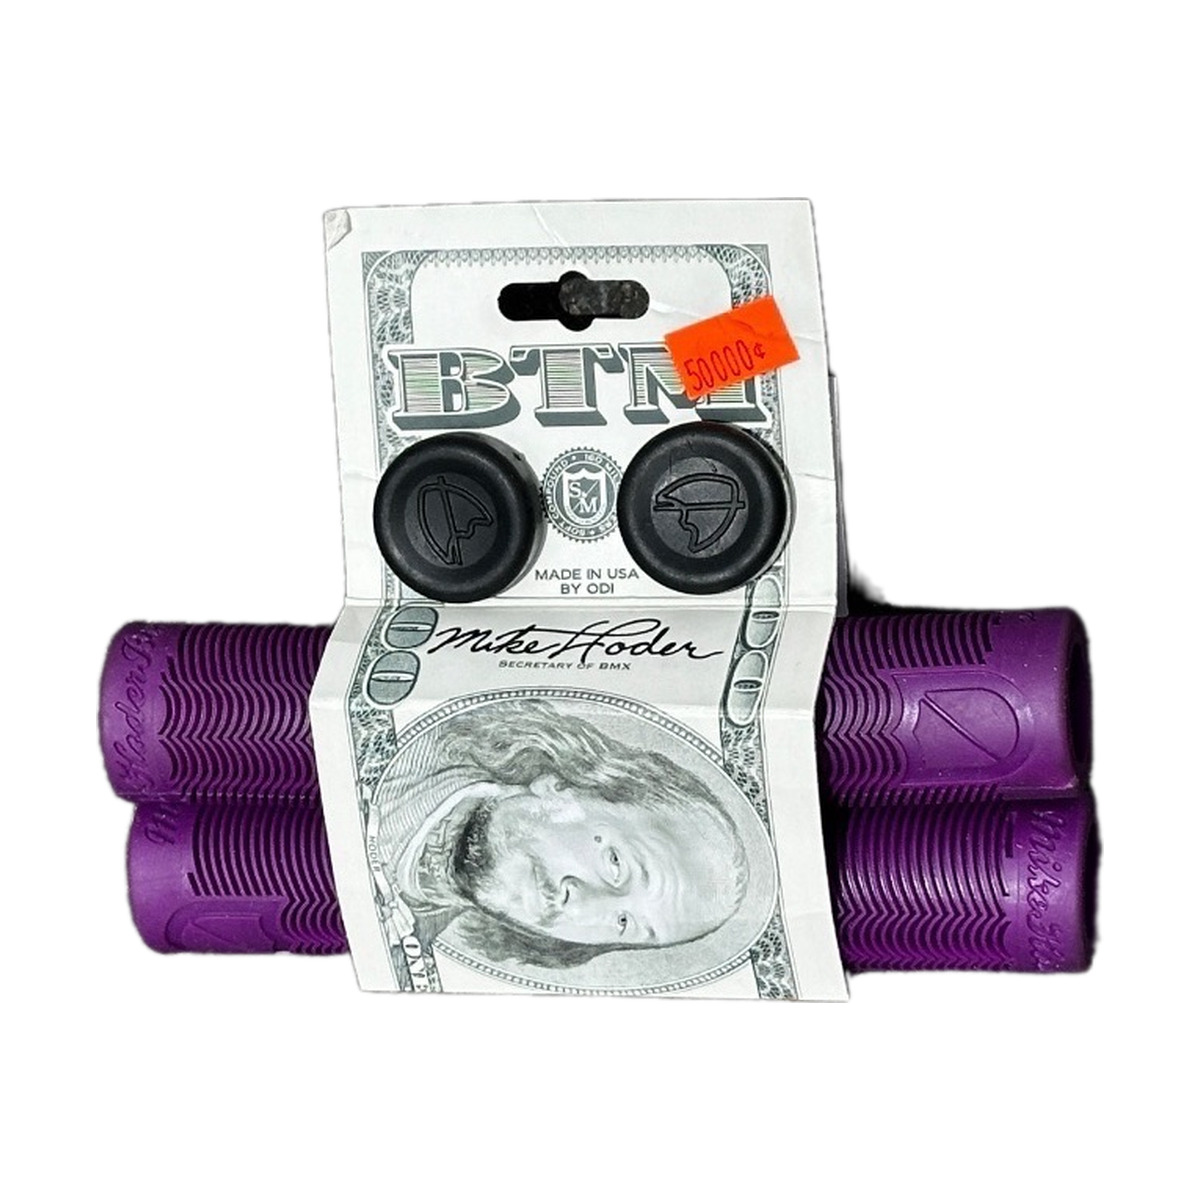
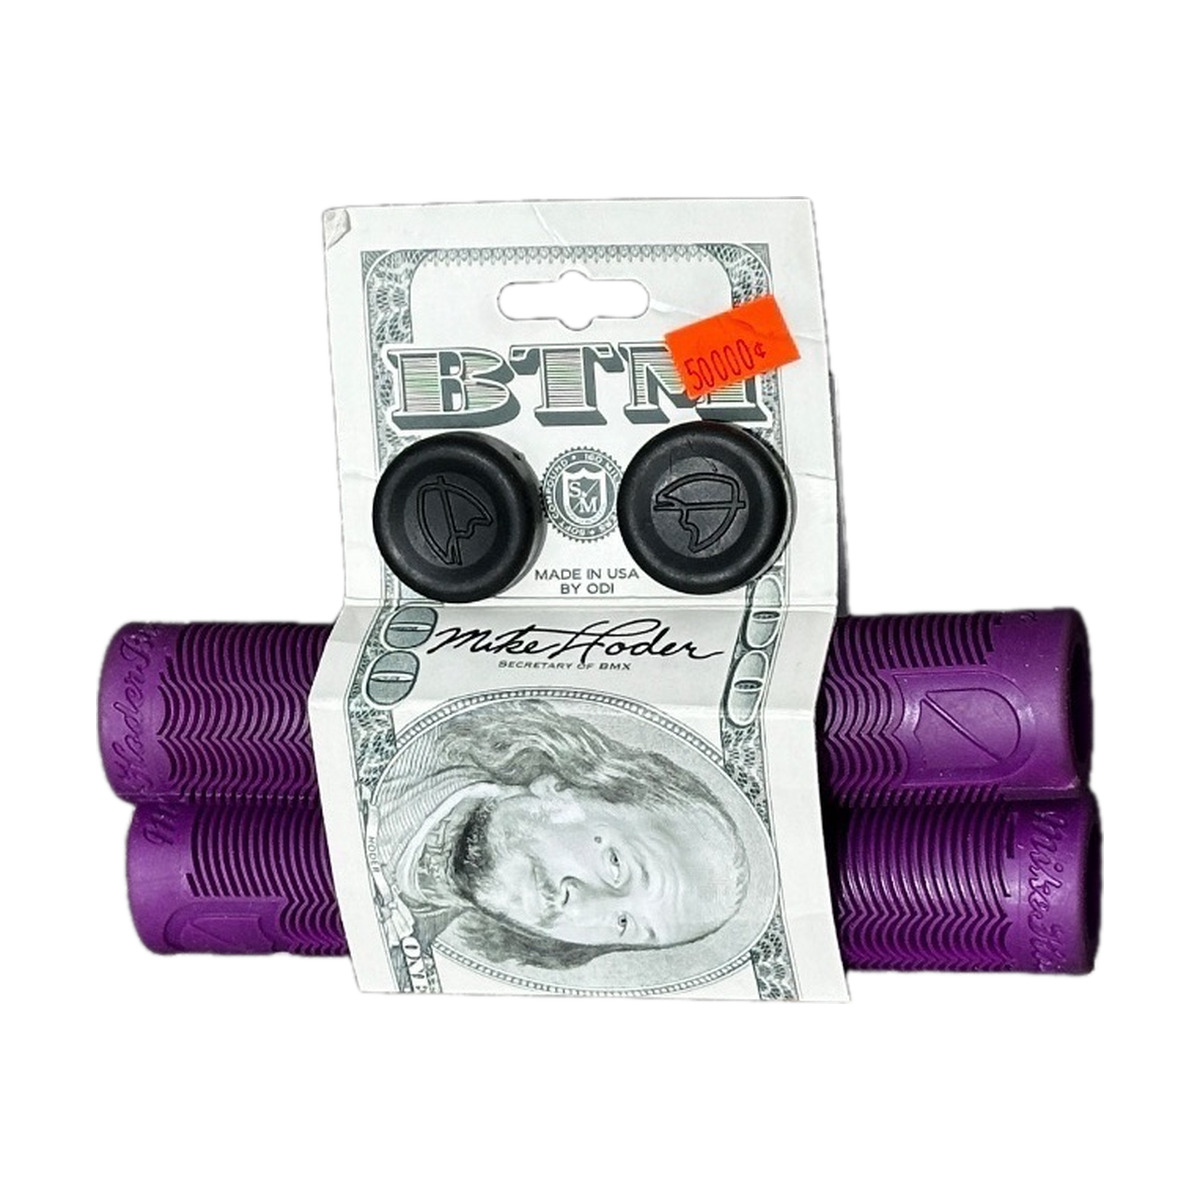
Fix broken Havens Gate photo; check live photo size instead of bytes
The fast background pass cut the Havens Gate handlebar in half.
Reprocess it from the original (it was already on white) and bump its
cache version. Hostinger's CDN re-encodes images, so the deploy check
now compares pixel dimensions instead of bytes.

Claude-Session: https://claude.ai/code/session_01JD7PEGH89YTJZUJzNQka1T

diff --git a/producto/timon-cult-havens-gate-4pc-cromado.html b/producto/timon-cult-havens-gate-4pc-cromado.html
@@ -15,11 +15,11 @@
   <meta property="og:title" content="Timon Cult Havens Gate 4PC - Cromado — Cult | ESCENABMX" />
   <meta property="og:description" content="Timon Cult Havens Gate 4PC - Cromado (Cult) — Fabricado en cromoly 100% tratado térmicamente y conificado , 28&quot; de ancho, 11,5° de inclinación hacia atrás, 3° de inclinación hacia arriba. $400.000 COP. Pedidos por WhatsApp con envío a toda Colombia. Tienda de partes BMX ESCENABMX." />
   <meta property="og:url" content="https://escenabmx.com/producto/timon-cult-havens-gate-4pc-cromado" />
-  <meta property="og:image" content="https://escenabmx.com/assets/img/products/timon-cult-havens-gate-4pc-cromado-mue14yksfrx6.jpg?v=1792523555864" />
+  <meta property="og:image" content="https://escenabmx.com/assets/img/products/timon-cult-havens-gate-4pc-cromado-mue14yksfrx6.jpg?v=1792524152401" />
   <meta name="twitter:card" content="summary_large_image" />
   <meta name="twitter:title" content="Timon Cult Havens Gate 4PC - Cromado — Cult | ESCENABMX" />
   <meta name="twitter:description" content="Timon Cult Havens Gate 4PC - Cromado (Cult) — Fabricado en cromoly 100% tratado térmicamente y conificado , 28&quot; de ancho, 11,5° de inclinación hacia atrás, 3° de inclinación hacia arriba. $400.000 COP. Pedidos por WhatsApp con envío a toda Colombia. Tienda de partes BMX ESCENABMX." />
-  <meta name="twitter:image" content="https://escenabmx.com/assets/img/products/timon-cult-havens-gate-4pc-cromado-mue14yksfrx6.jpg?v=1792523555864" />
+  <meta name="twitter:image" content="https://escenabmx.com/assets/img/products/timon-cult-havens-gate-4pc-cromado-mue14yksfrx6.jpg?v=1792524152401" />
   <link rel="icon" href="../assets/img/favicon.ico?v=2" sizes="any" />
   <link rel="icon" type="image/png" sizes="32x32" href="../assets/img/favicon-32.png?v=2" />
   <link rel="icon" type="image/png" sizes="48x48" href="../assets/img/favicon-48.png?v=2" />
@@ -32,7 +32,7 @@
   <link rel="preconnect" href="https://fonts.googleapis.com" />
   <link rel="preconnect" href="https://fonts.gstatic.com" crossorigin />
   <link href="https://fonts.googleapis.com/css2?family=Bebas+Neue&family=Inter:wght@300;400;500;600;700;800&display=swap" rel="stylesheet" />
-  <script type="application/ld+json">{"@context": "https://schema.org", "@type": "Product", "name": "Timon Cult Havens Gate 4PC - Cromado", "image": "https://escenabmx.com/assets/img/products/timon-cult-havens-gate-4pc-cromado-mue14yksfrx6.jpg?v=1792523555864", "description": "Timon Cult Havens Gate 4PC - Cromado (Cult) — Fabricado en cromoly 100% tratado térmicamente y conificado , 28\" de ancho, 11,5° de inclinación hacia atrás, 3° de inclinación hacia arriba.", "sku": "TMN-CLT-003", "brand": {"@type": "Brand", "name": "Cult"}, "category": "Timones", "offers": {"@type": "Offer", "url": "https://escenabmx.com/producto/timon-cult-havens-gate-4pc-cromado", "priceCurrency": "COP", "price": "400000", "availability": "https://schema.org/InStock", "itemCondition": "https://schema.org/NewCondition", "seller": {"@type": "Organization", "name": "ESCENABMX"}}}</script>
+  <script type="application/ld+json">{"@context": "https://schema.org", "@type": "Product", "name": "Timon Cult Havens Gate 4PC - Cromado", "image": "https://escenabmx.com/assets/img/products/timon-cult-havens-gate-4pc-cromado-mue14yksfrx6.jpg?v=1792524152401", "description": "Timon Cult Havens Gate 4PC - Cromado (Cult) — Fabricado en cromoly 100% tratado térmicamente y conificado , 28\" de ancho, 11,5° de inclinación hacia atrás, 3° de inclinación hacia arriba.", "sku": "TMN-CLT-003", "brand": {"@type": "Brand", "name": "Cult"}, "category": "Timones", "offers": {"@type": "Offer", "url": "https://escenabmx.com/producto/timon-cult-havens-gate-4pc-cromado", "priceCurrency": "COP", "price": "400000", "availability": "https://schema.org/InStock", "itemCondition": "https://schema.org/NewCondition", "seller": {"@type": "Organization", "name": "ESCENABMX"}}}</script>
   <script type="application/ld+json">{"@context": "https://schema.org", "@type": "BreadcrumbList", "itemListElement": [{"@type": "ListItem", "position": 1, "name": "Inicio", "item": "https://escenabmx.com/inicio"}, {"@type": "ListItem", "position": 2, "name": "Tienda", "item": "https://escenabmx.com/tienda"}, {"@type": "ListItem", "position": 3, "name": "Timones", "item": "https://escenabmx.com/tienda?cat=manubrios"}, {"@type": "ListItem", "position": 4, "name": "Timon Cult Havens Gate 4PC - Cromado", "item": "https://escenabmx.com/producto/timon-cult-havens-gate-4pc-cromado"}]}</script>
   <style>
     *, *::before, *::after { box-sizing: border-box; margin: 0; padding: 0; }
@@ -356,10 +356,10 @@ header.top-bar .brand .name { color: #fff; }
 
 <div class="pdp">
   <div>
-    <div class="pdp-image" id="pdpGallery" data-imgs="[&quot;../assets/img/products/timon-cult-havens-gate-4pc-cromado-mue14yksfrx6.jpg?v=1792523555864&quot;]" data-fit="auto">
+    <div class="pdp-image" id="pdpGallery" data-imgs="[&quot;../assets/img/products/timon-cult-havens-gate-4pc-cromado-mue14yksfrx6.jpg?v=1792524152401&quot;]" data-fit="auto">
       <div class="pdp-image-blur" id="pdpBlur"></div>
       
-      <img id="pdpMainImg" src="../assets/img/products/timon-cult-havens-gate-4pc-cromado-mue14yksfrx6.jpg?v=1792523555864" alt="Timon Cult Havens Gate 4PC - Cromado - Cult BMX" width="700" height="700" />
+      <img id="pdpMainImg" src="../assets/img/products/timon-cult-havens-gate-4pc-cromado-mue14yksfrx6.jpg?v=1792524152401" alt="Timon Cult Havens Gate 4PC - Cromado - Cult BMX" width="700" height="700" />
       <button type="button" class="pdp-zoom-btn" id="pdpZoomBtn" aria-label="Ampliar imagen"><svg viewBox="0 0 24 24" aria-hidden="true"><circle cx="11" cy="11" r="7"/><path d="M21 21l-4.3-4.3M11 8v6M8 11h6"/></svg></button>
       <div class="pdp-dots" id="pdpDots"></div>
     </div>
@@ -382,7 +382,7 @@ header.top-bar .brand .name { color: #fff; }
         <input type="number" class="qty-input" id="qtyInput" value="1" min="1" max="2" />
         <button type="button" id="qtyInc" aria-label="Aumentar cantidad">+</button>
       </div>
-      <button type="button" class="add-cart-btn" data-slug="timon-cult-havens-gate-4pc-cromado" data-n="Timon Cult Havens Gate 4PC - Cromado" data-brand="Cult" data-price="400000" data-img="assets/img/products/timon-cult-havens-gate-4pc-cromado-mue14yksfrx6.jpg?v=1792523555864" data-units="2" data-variant="">Agregar al carrito</button>
+      <button type="button" class="add-cart-btn" data-slug="timon-cult-havens-gate-4pc-cromado" data-n="Timon Cult Havens Gate 4PC - Cromado" data-brand="Cult" data-price="400000" data-img="assets/img/products/timon-cult-havens-gate-4pc-cromado-mue14yksfrx6.jpg?v=1792524152401" data-units="2" data-variant="">Agregar al carrito</button>
     </div>
     <div class="pdp-share">
       <span>Compartir</span>

diff --git a/producto/timon-cult-heavens-gate-4p-cromado.html b/producto/timon-cult-heavens-gate-4p-cromado.html
@@ -402,7 +402,7 @@ header.top-bar .brand .name { color: #fff; }
   <h2>También te puede gustar</h2>
   <div class="related-grid">
     <a class="r-card" href="timon-cult-havens-gate-4pc-cromado">
-        <div class="ph" style="position:relative;"><img src="../assets/img/products/timon-cult-havens-gate-4pc-cromado-mue14yksfrx6.jpg?v=1792523555864" alt="Timon Cult Havens Gate 4PC - Cromado - Cult BMX" loading="lazy" width="300" height="300" /></div>
+        <div class="ph" style="position:relative;"><img src="../assets/img/products/timon-cult-havens-gate-4pc-cromado-mue14yksfrx6.jpg?v=1792524152401" alt="Timon Cult Havens Gate 4PC - Cromado - Cult BMX" loading="lazy" width="300" height="300" /></div>
         <div class="body">
           <span class="brand-lbl">Cult</span>
           <h3>Timon Cult Havens Gate 4PC - Cromado</h3>

diff --git a/producto/timon-fiend-reynolds-cromado.html b/producto/timon-fiend-reynolds-cromado.html
@@ -402,7 +402,7 @@ header.top-bar .brand .name { color: #fff; }
   <h2>También te puede gustar</h2>
   <div class="related-grid">
     <a class="r-card" href="timon-cult-havens-gate-4pc-cromado">
-        <div class="ph" style="position:relative;"><img src="../assets/img/products/timon-cult-havens-gate-4pc-cromado-mue14yksfrx6.jpg?v=1792523555864" alt="Timon Cult Havens Gate 4PC - Cromado - Cult BMX" loading="lazy" width="300" height="300" /></div>
+        <div class="ph" style="position:relative;"><img src="../assets/img/products/timon-cult-havens-gate-4pc-cromado-mue14yksfrx6.jpg?v=1792524152401" alt="Timon Cult Havens Gate 4PC - Cromado - Cult BMX" loading="lazy" width="300" height="300" /></div>
         <div class="body">
           <span class="brand-lbl">Cult</span>
           <h3>Timon Cult Havens Gate 4PC - Cromado</h3>

diff --git a/producto/timon-fiend-reynolds.html b/producto/timon-fiend-reynolds.html
@@ -402,7 +402,7 @@ header.top-bar .brand .name { color: #fff; }
   <h2>También te puede gustar</h2>
   <div class="related-grid">
     <a class="r-card" href="timon-cult-havens-gate-4pc-cromado">
-        <div class="ph" style="position:relative;"><img src="../assets/img/products/timon-cult-havens-gate-4pc-cromado-mue14yksfrx6.jpg?v=1792523555864" alt="Timon Cult Havens Gate 4PC - Cromado - Cult BMX" loading="lazy" width="300" height="300" /></div>
+        <div class="ph" style="position:relative;"><img src="../assets/img/products/timon-cult-havens-gate-4pc-cromado-mue14yksfrx6.jpg?v=1792524152401" alt="Timon Cult Havens Gate 4PC - Cromado - Cult BMX" loading="lazy" width="300" height="300" /></div>
         <div class="body">
           <span class="brand-lbl">Cult</span>
           <h3>Timon Cult Havens Gate 4PC - Cromado</h3>

diff --git a/producto/manubrio-cromoly-negro-01.html b/producto/manubrio-cromoly-negro-01.html
@@ -413,7 +413,7 @@ header.top-bar .brand .name { color: #fff; }
         </div>
       </a>
 <a class="r-card" href="timon-cult-havens-gate-4pc-cromado">
-        <div class="ph" style="position:relative;"><img src="../assets/img/products/timon-cult-havens-gate-4pc-cromado-mue14yksfrx6.jpg?v=1792523555864" alt="Timon Cult Havens Gate 4PC - Cromado - Cult BMX" loading="lazy" width="300" height="300" /></div>
+        <div class="ph" style="position:relative;"><img src="../assets/img/products/timon-cult-havens-gate-4pc-cromado-mue14yksfrx6.jpg?v=1792524152401" alt="Timon Cult Havens Gate 4PC - Cromado - Cult BMX" loading="lazy" width="300" height="300" /></div>
         <div class="body">
           <span class="brand-lbl">Cult</span>
           <h3>Timon Cult Havens Gate 4PC - Cromado</h3>

diff --git a/producto/manubrio-cromoly-negro-03.html b/producto/manubrio-cromoly-negro-03.html
@@ -410,7 +410,7 @@ header.top-bar .brand .name { color: #fff; }
         </div>
       </a>
 <a class="r-card" href="timon-cult-havens-gate-4pc-cromado">
-        <div class="ph" style="position:relative;"><img src="../assets/img/products/timon-cult-havens-gate-4pc-cromado-mue14yksfrx6.jpg?v=1792523555864" alt="Timon Cult Havens Gate 4PC - Cromado - Cult BMX" loading="lazy" width="300" height="300" /></div>
+        <div class="ph" style="position:relative;"><img src="../assets/img/products/timon-cult-havens-gate-4pc-cromado-mue14yksfrx6.jpg?v=1792524152401" alt="Timon Cult Havens Gate 4PC - Cromado - Cult BMX" loading="lazy" width="300" height="300" /></div>
         <div class="body">
           <span class="brand-lbl">Cult</span>
           <h3>Timon Cult Havens Gate 4PC - Cromado</h3>

diff --git a/producto/manubrio-cromoly-negro-04.html b/producto/manubrio-cromoly-negro-04.html
@@ -410,7 +410,7 @@ header.top-bar .brand .name { color: #fff; }
         </div>
       </a>
 <a class="r-card" href="timon-cult-havens-gate-4pc-cromado">
-        <div class="ph" style="position:relative;"><img src="../assets/img/products/timon-cult-havens-gate-4pc-cromado-mue14yksfrx6.jpg?v=1792523555864" alt="Timon Cult Havens Gate 4PC - Cromado - Cult BMX" loading="lazy" width="300" height="300" /></div>
+        <div class="ph" style="position:relative;"><img src="../assets/img/products/timon-cult-havens-gate-4pc-cromado-mue14yksfrx6.jpg?v=1792524152401" alt="Timon Cult Havens Gate 4PC - Cromado - Cult BMX" loading="lazy" width="300" height="300" /></div>
         <div class="body">
           <span class="brand-lbl">Cult</span>
           <h3>Timon Cult Havens Gate 4PC - Cromado</h3>

diff --git a/producto/timon-merritt-slaughter-4pc-negro.html b/producto/timon-merritt-slaughter-4pc-negro.html
@@ -410,7 +410,7 @@ header.top-bar .brand .name { color: #fff; }
         </div>
       </a>
 <a class="r-card" href="timon-cult-havens-gate-4pc-cromado">
-        <div class="ph" style="position:relative;"><img src="../assets/img/products/timon-cult-havens-gate-4pc-cromado-mue14yksfrx6.jpg?v=1792523555864" alt="Timon Cult Havens Gate 4PC - Cromado - Cult BMX" loading="lazy" width="300" height="300" /></div>
+        <div class="ph" style="position:relative;"><img src="../assets/img/products/timon-cult-havens-gate-4pc-cromado-mue14yksfrx6.jpg?v=1792524152401" alt="Timon Cult Havens Gate 4PC - Cromado - Cult BMX" loading="lazy" width="300" height="300" /></div>
         <div class="body">
           <span class="brand-lbl">Cult</span>
           <h3>Timon Cult Havens Gate 4PC - Cromado</h3>

diff --git a/assets/js/products-data.js b/assets/js/products-data.js
@@ -1522,7 +1522,7 @@ window.ESCENA_PRODUCTS = [
   ],
   "slug": "timon-cult-havens-gate-4pc-cromado",
   "order": 0,
-  "img": "assets/img/products/timon-cult-havens-gate-4pc-cromado-mue14yksfrx6.jpg?v=1792523555864"
+  "img": "assets/img/products/timon-cult-havens-gate-4pc-cromado-mue14yksfrx6.jpg?v=1792524152401"
  },
  {
   "n": "Timon Cult Crew - Cromado",
